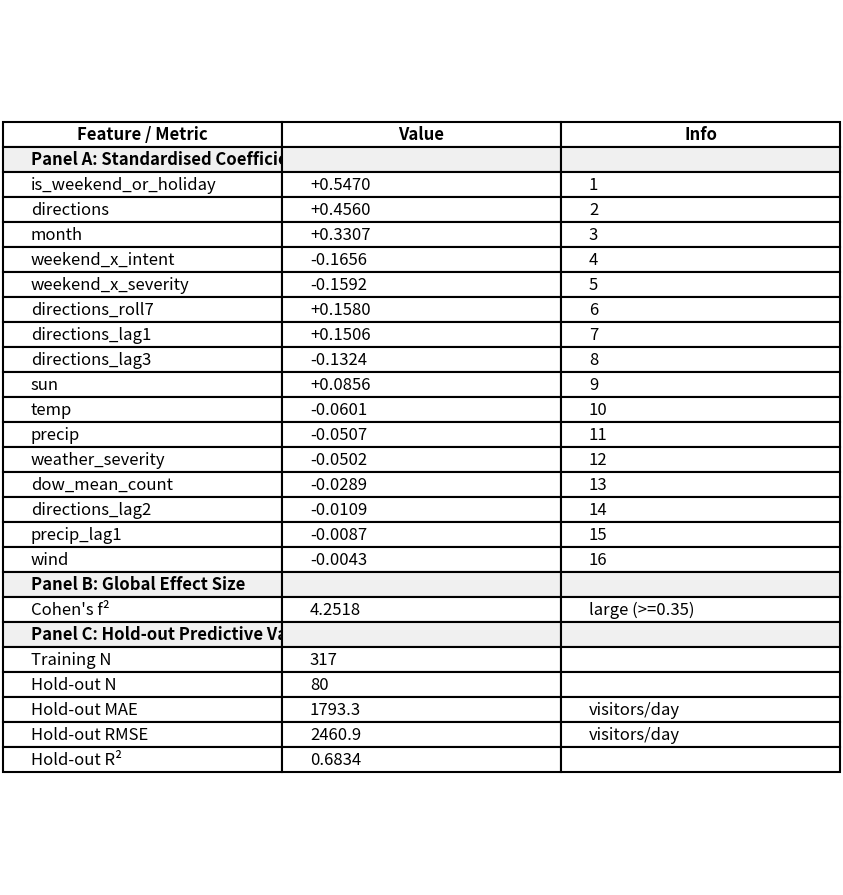
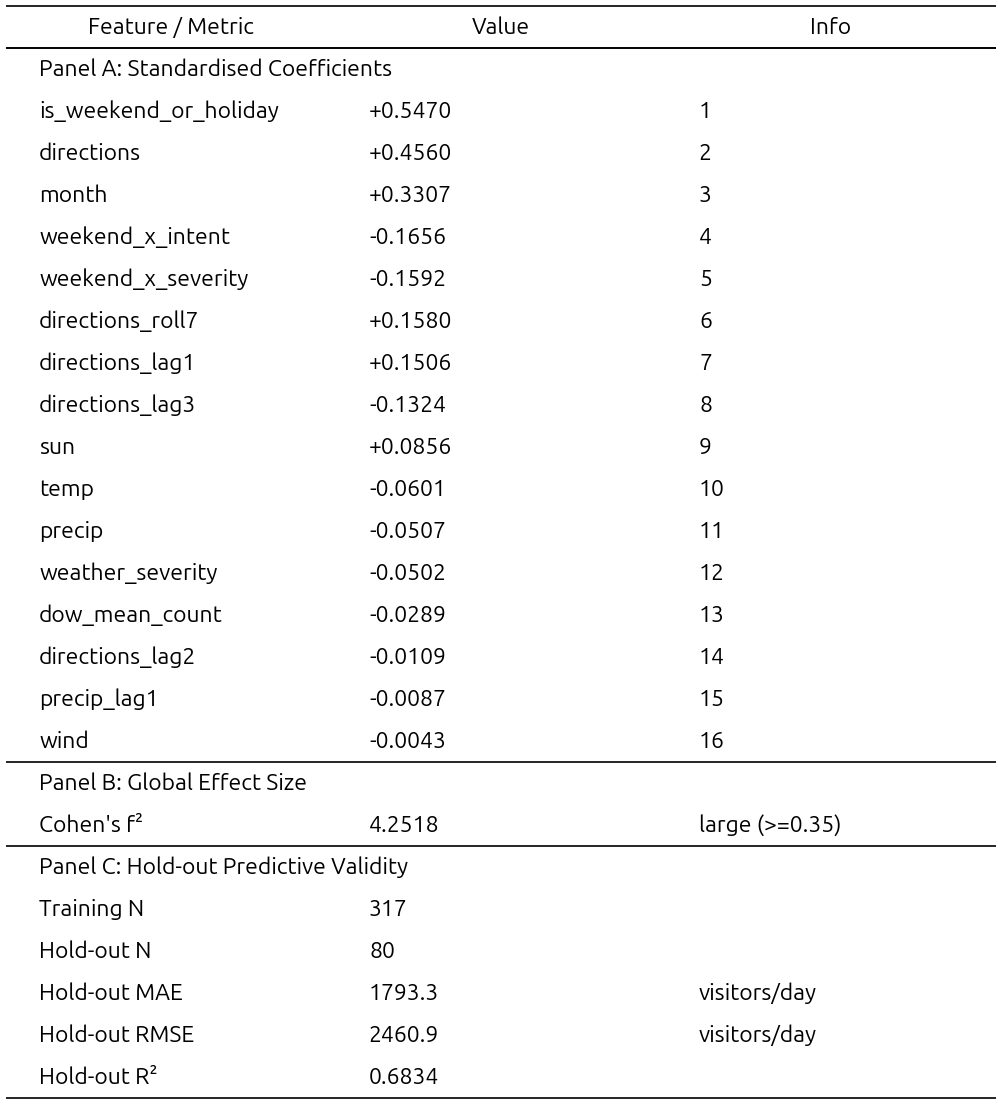
style(tables): booktabs horizontal-rule layout, Ubuntu Sans 11pt, PIL autocrop

diff --git a/src/latex_export.py b/src/latex_export.py
@@ -24,64 +24,89 @@ _ALT_BG  = "white"
 def _render_table_png(
     col_labels: list[str],
     body: list,          # list[str] = section header row; list[list[str]] = data row
-    caption: str,
+    caption: str,        # kept for .tex only; not shown in PNG
     out_path: str,
     dpi: int = 150,
 ) -> None:
-    """Render a table to PNG via matplotlib.
+    """Render a booktabs-style academic table to PNG (no title, autocropped)."""
+    from PIL import Image, ImageChops
 
-    Body rows are either:
-    - ``list[str]``: normal data row
-    - ``str``: section header spanning all columns
-    """
-    ncols = len(col_labels)
+    FONT     = "Ubuntu Sans"
+    FONTSIZE = 11
+    ROW_H    = 0.28   # inches per row
+    ncols    = len(col_labels)
 
-    cell_text: list[list[str]] = []
+    cell_text:   list[list[str]] = []
     cell_colors: list[list[str]] = []
-    is_section: list[bool] = []
+    is_section:  list[bool]      = []
 
-    data_row_idx = 0
     for row in body:
         if isinstance(row, str):
             cell_text.append([row] + [""] * (ncols - 1))
-            cell_colors.append([_SEC_BG] * ncols)
+            cell_colors.append(["white"] * ncols)
             is_section.append(True)
         else:
             padded = list(row) + [""] * (ncols - len(row))
             cell_text.append(padded[:ncols])
-            bg = _ALT_BG if data_row_idx % 2 == 0 else "white"
-            cell_colors.append([bg] * ncols)
+            cell_colors.append(["white"] * ncols)
             is_section.append(False)
-            data_row_idx += 1
 
-    nrows = len(cell_text)
-    row_h = 0.30
-    fig_h = max(1.5, nrows * row_h + 0.2)
-    fig_w = max(6.0, ncols * 2.4)
+    nrows  = len(cell_text)
+    fig_h  = (nrows + 1) * ROW_H
+    fig_w  = max(5.0, ncols * 2.2)
 
     fig, ax = plt.subplots(figsize=(fig_w, fig_h))
+    ax.set_position([0, 0, 1, 1])
     ax.axis("off")
 
     tbl = ax.table(
         cellText=cell_text,
         colLabels=col_labels,
         cellColours=cell_colors,
-        colColours=[_HDR_BG] * ncols,
+        colColours=["white"] * ncols,
         loc="center",
         cellLoc="left",
+        bbox=[0, 0, 1, 1],
     )
     tbl.auto_set_font_size(False)
-    tbl.set_fontsize(8.0)
+    tbl.set_fontsize(FONTSIZE)
 
+    # Booktabs-style: horizontal rules only, no vertical lines
+    for (row, col), cell in tbl.get_celld().items():
+        cell.set_edgecolor("black")
+        cell.set_linewidth(0.8)
+        if row == 0:                           # header: toprule + midrule
+            cell.visible_edges = "TB"
+        elif row == nrows:                     # last row: bottomrule
+            cell.visible_edges = "B"
+        elif row > 0 and is_section[row - 1]:  # section header: midrule above
+            cell.visible_edges = "T"
+        else:
+            cell.visible_edges = ""
+
+    # Typography
     for j in range(ncols):
-        tbl[0, j].set_text_props(color="black", fontweight="bold")
-
+        tbl[0, j].set_text_props(fontfamily=FONT, fontweight="bold", fontsize=FONTSIZE)
     for i, sec in enumerate(is_section):
+        for j in range(ncols):
+            tbl[i + 1, j].set_text_props(fontfamily=FONT, fontsize=FONTSIZE)
         if sec:
-            tbl[i + 1, 0].set_text_props(fontweight="bold", color="black")
+            tbl[i + 1, 0].set_text_props(fontfamily=FONT, fontweight="bold", fontsize=FONTSIZE)
 
-    fig.savefig(out_path, dpi=dpi, bbox_inches="tight", pad_inches=0.02, facecolor="white")
+    fig.savefig(out_path, dpi=dpi, bbox_inches="tight", pad_inches=0.04, facecolor="white")
     plt.close(fig)
+
+    # Autocrop remaining whitespace
+    img = Image.open(out_path).convert("RGB")
+    diff = ImageChops.difference(img, Image.new("RGB", img.size, (255, 255, 255)))
+    bbox = diff.getbbox()
+    if bbox:
+        pad = int(dpi * 0.04)
+        w, h = img.size
+        bbox = (max(0, bbox[0] - pad), max(0, bbox[1] - pad),
+                min(w, bbox[2] + pad), min(h, bbox[3] + pad))
+        img = img.crop(bbox)
+    img.save(out_path, dpi=(dpi, dpi))
 
 
 # ── LaTeX generators ──────────────────────────────────────────────────────────
